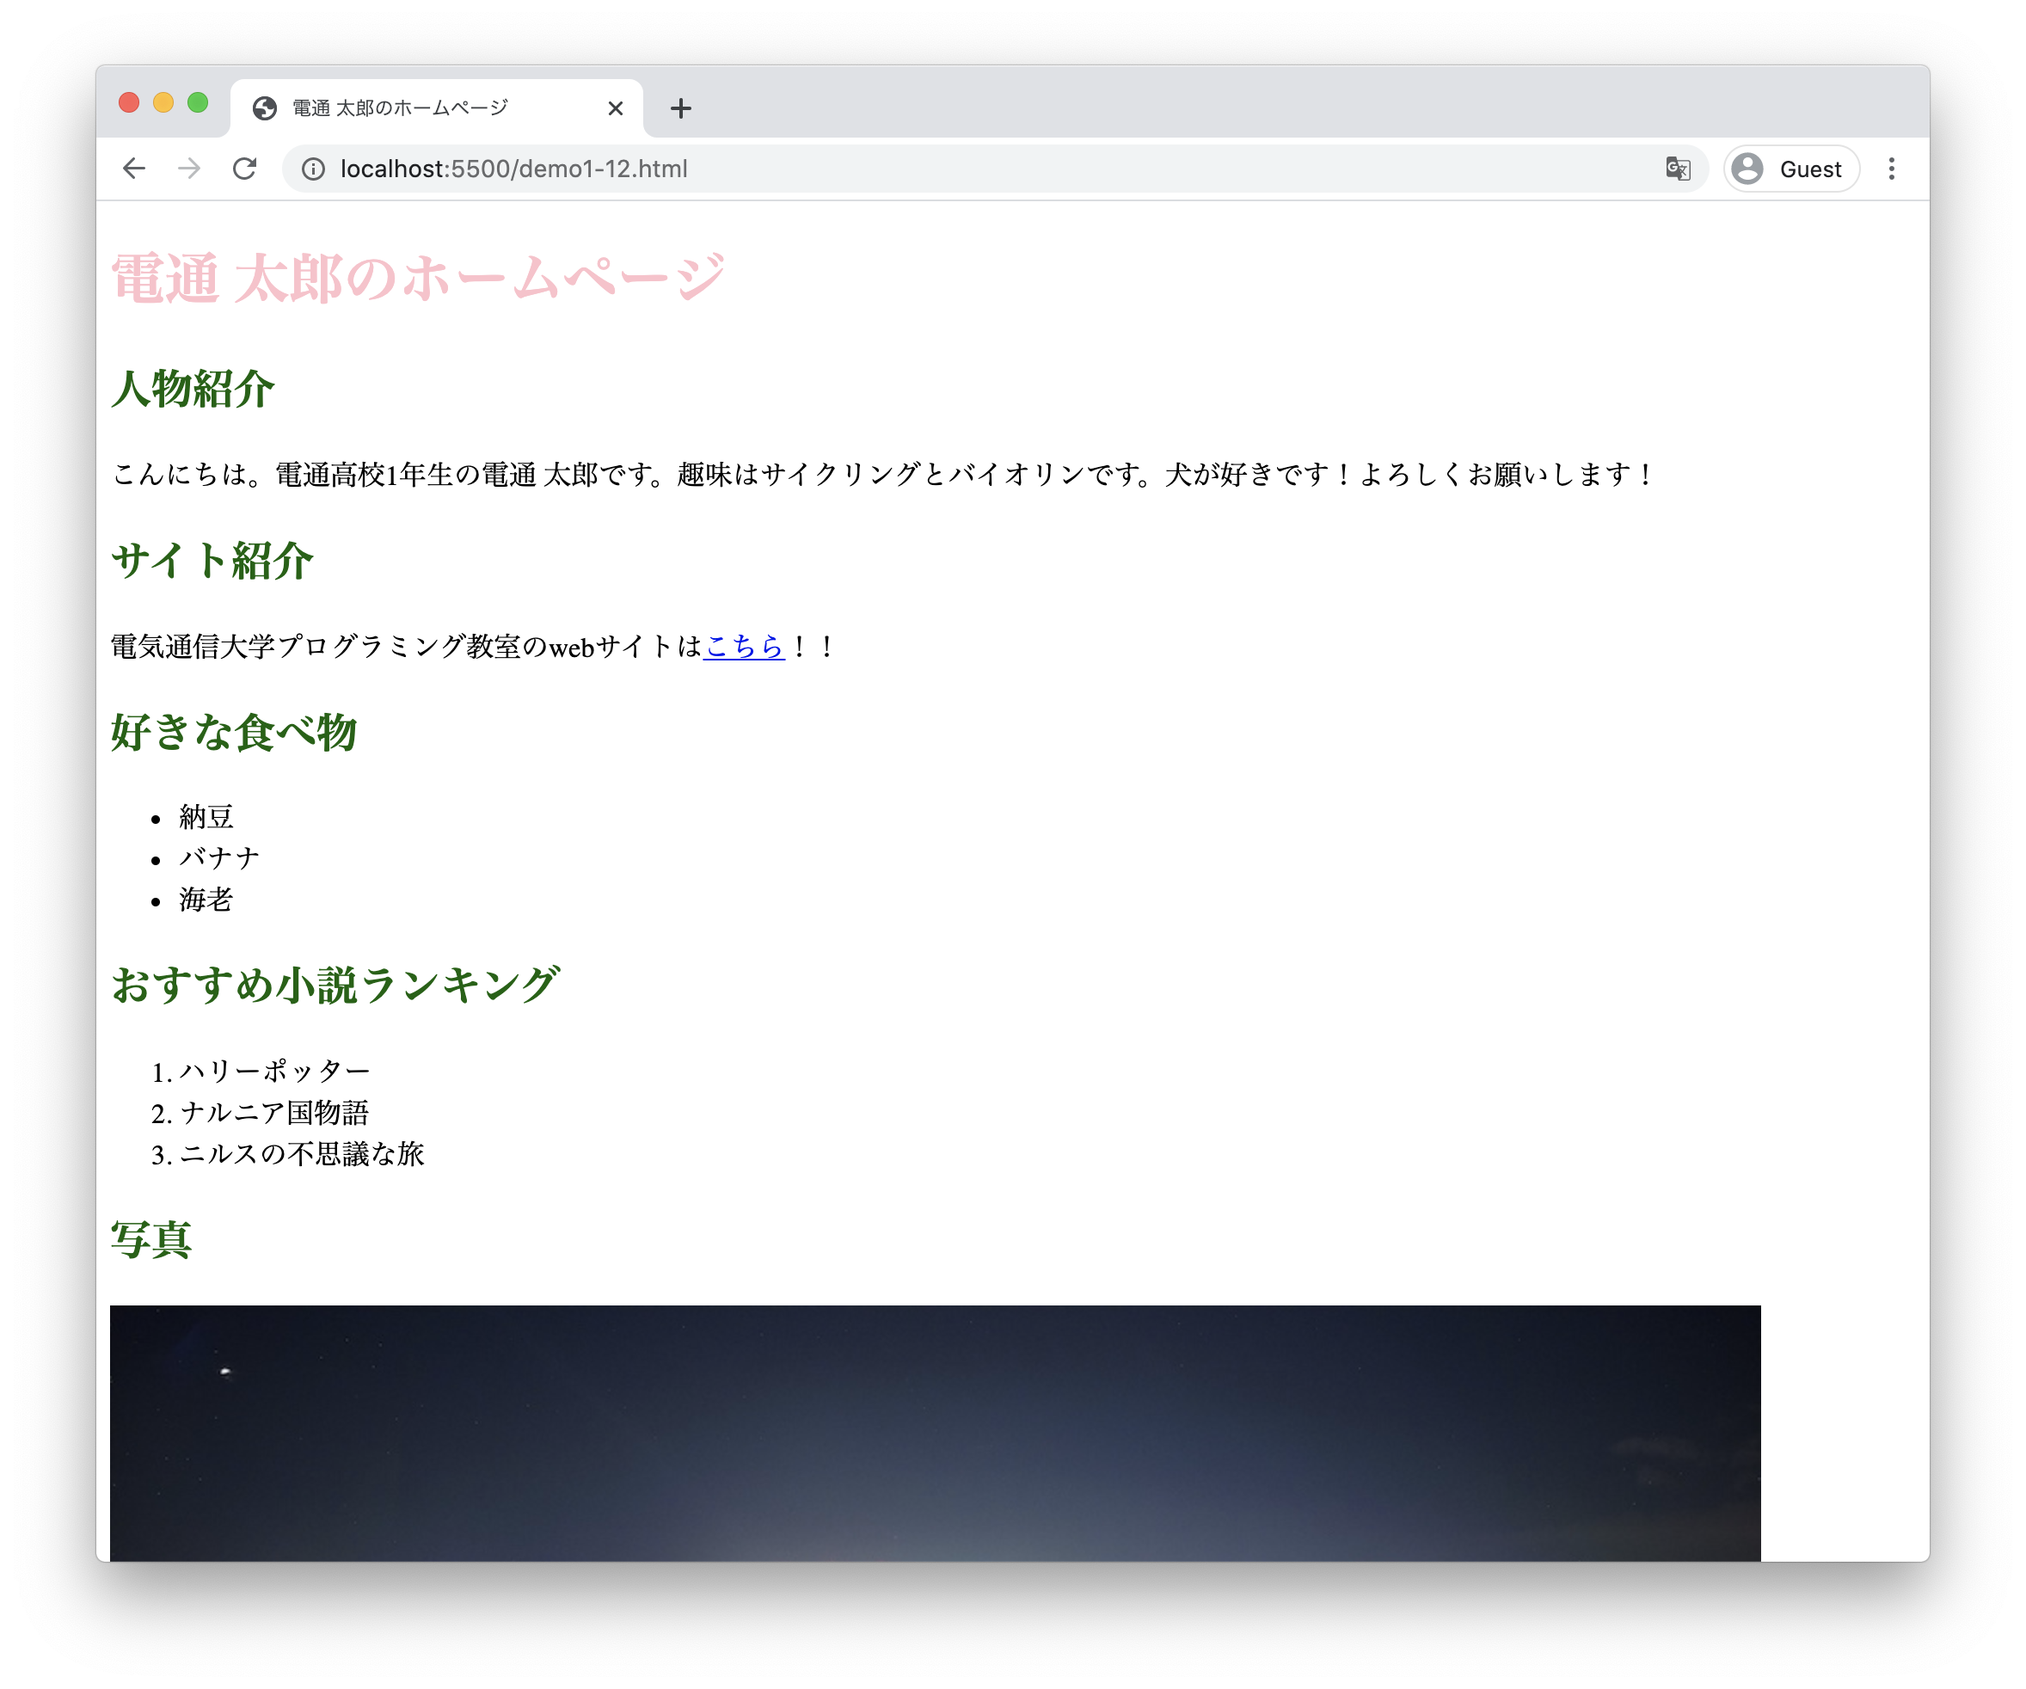
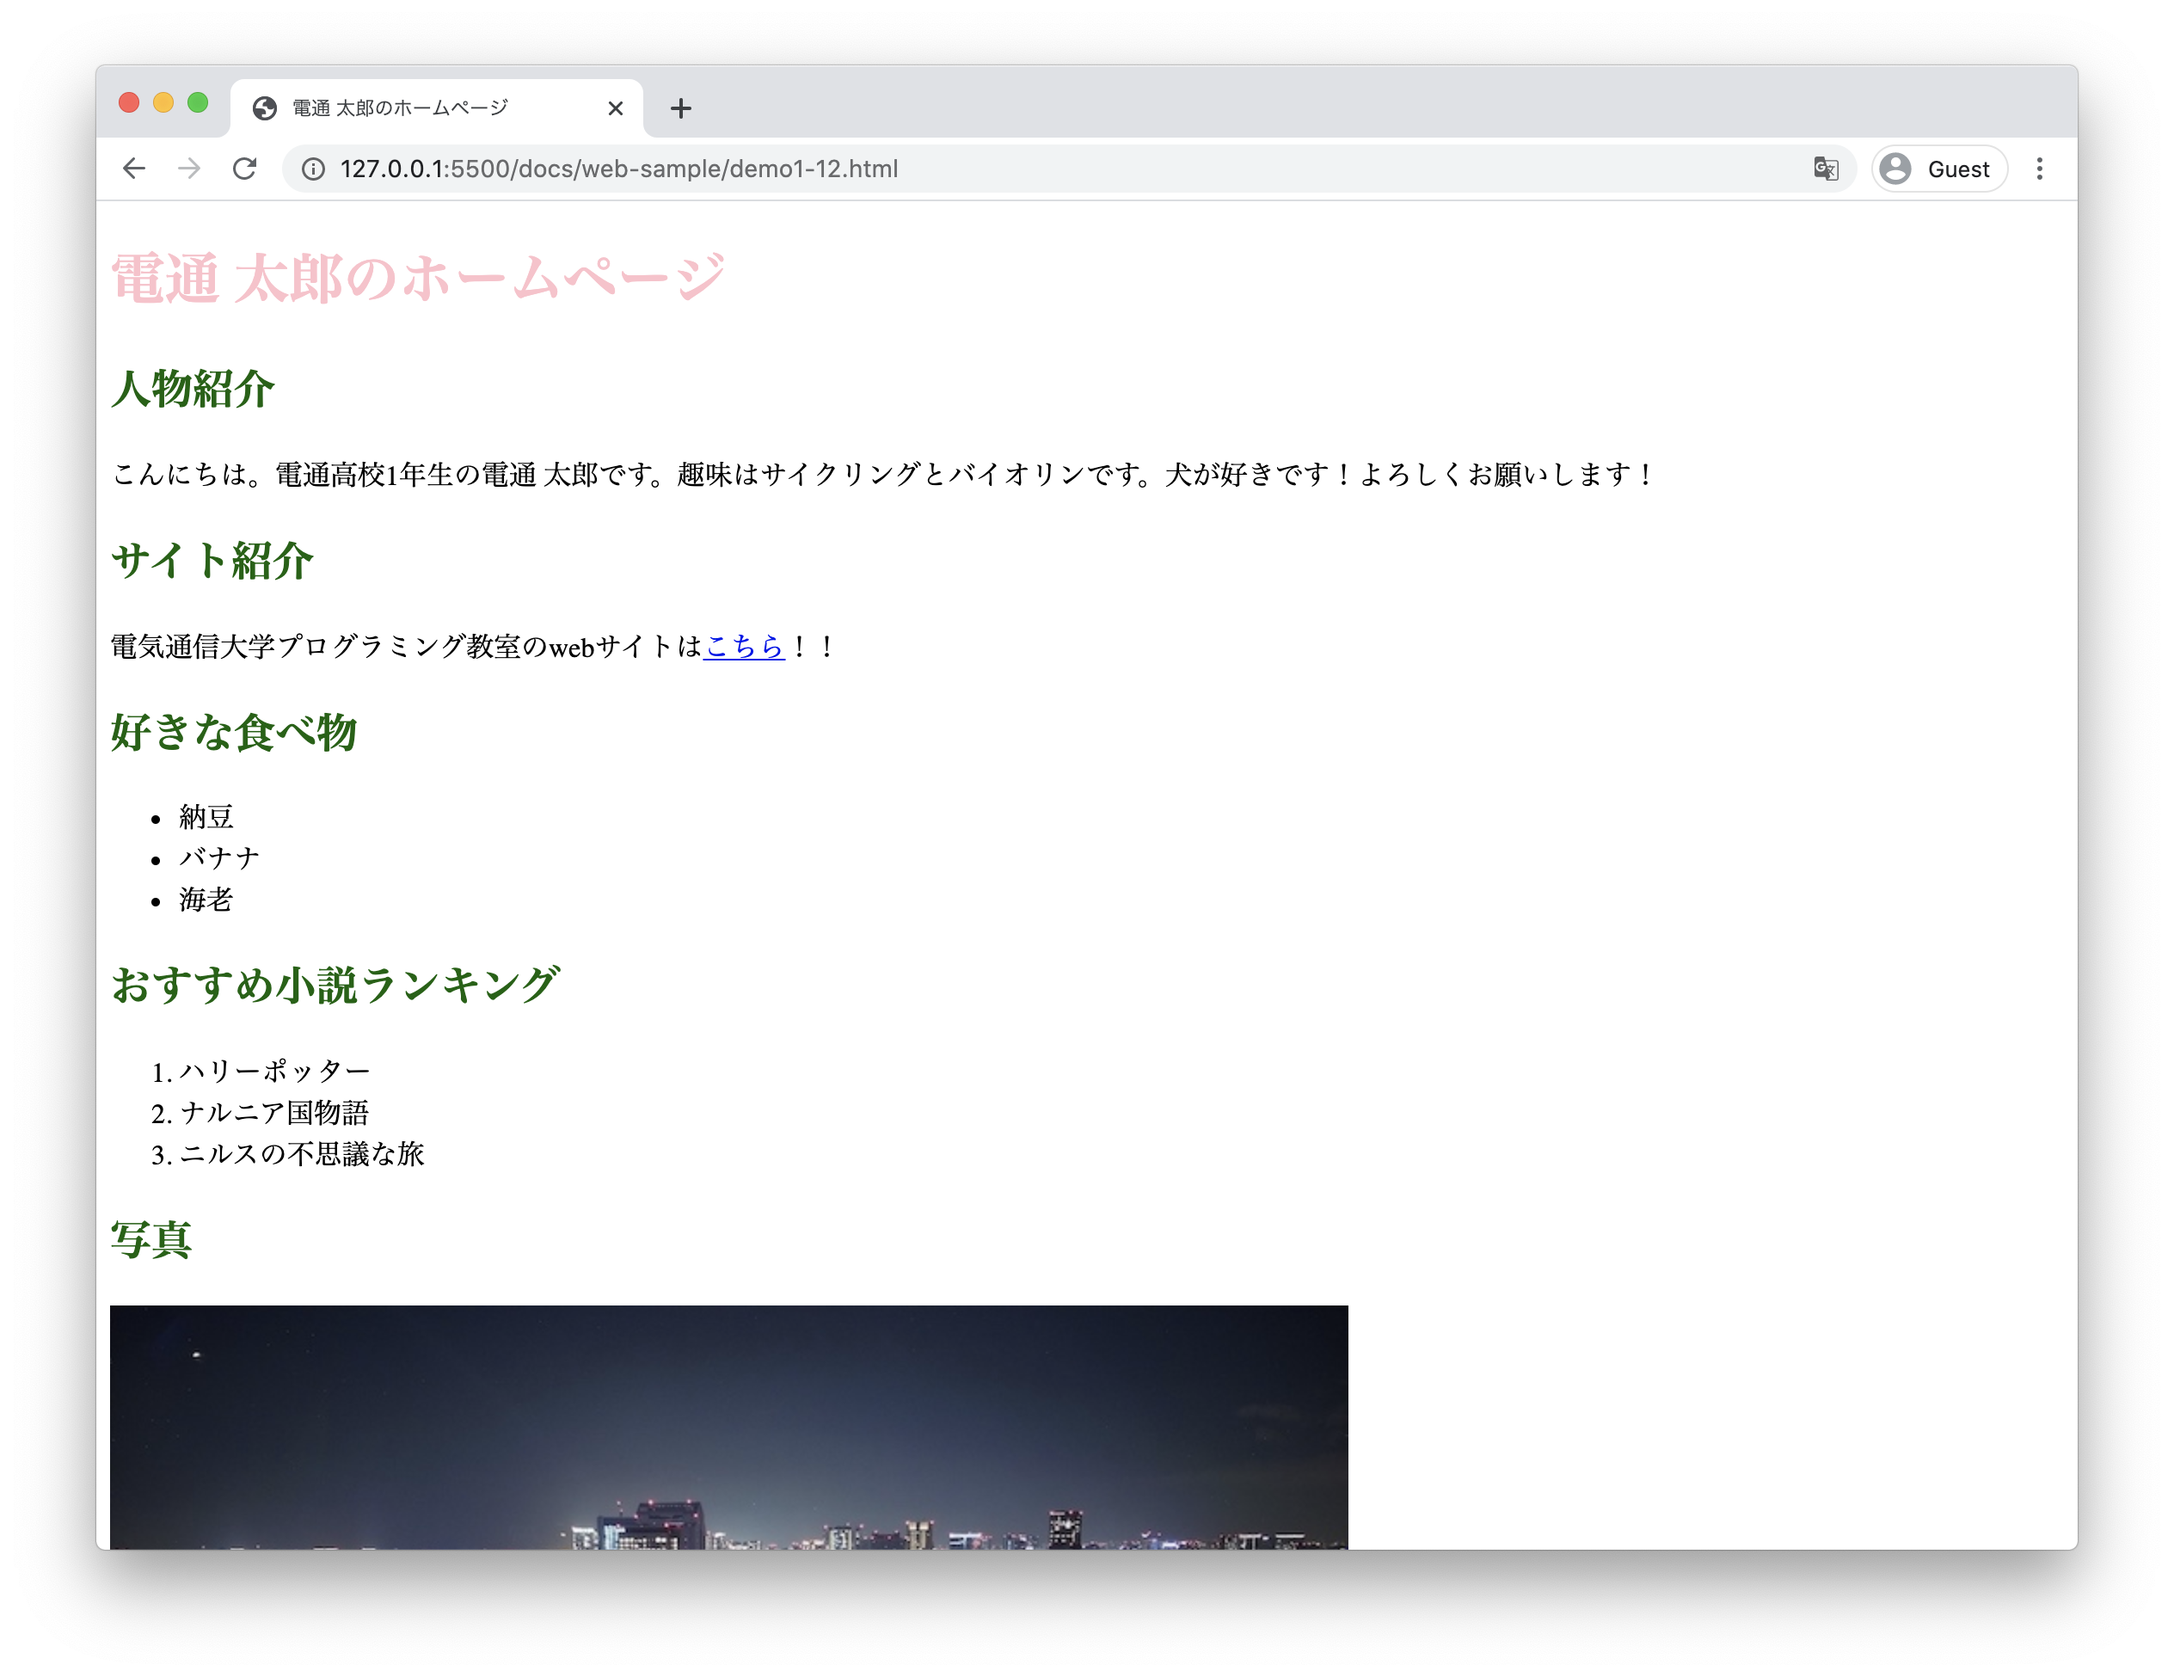
画像周りの修正

diff --git a/docs/web-sample/demo1.html b/docs/web-sample/demo1.html
@@ -20,8 +20,8 @@
       }
       img {
         border: 4px solid gray;
-        width: 480px;
-        height: 270px;
+        width: 320px;
+        height: 180px;
         border-radius: 20px;
       }
       main {
@@ -32,6 +32,9 @@
       }
       .violine {
         color: orange;
+      }
+      .pictures {
+        display: flex;
       }
       .cycling,
       .violine {
@@ -66,8 +69,10 @@
         <li>ニルスの不思議な旅</li>
       </ol>
       <h2>写真</h2>
-      <img src="tokyo-night.jpg" alt="東京の夜景" />
-      <p>東京の夜景です。きれいでしょう？</p>
+      <div class="pictures">
+        <img src="img/tokyo-night.jpg" alt="東京タワーから見た夜景" />
+        <img src="img/tokyo-sunrise.jpg" alt="高尾山から見た朝焼け" />
+      </div>
       <h2>お問い合わせ</h2>
       <form action="http://soasa.starfree.jp/form.php">
         名前: <input type="text" name="name" placeholder="電通太郎" />

diff --git a/docs/web-sample/demo1-18.html b/docs/web-sample/demo1-18.html
@@ -20,8 +20,8 @@
       }
       img {
         border: 4px solid gray;
-        width: 480px;
-        height: 270px;
+        width: 320px;
+        height: 180px;
         border-radius: 20px;
       }
       main {
@@ -32,6 +32,9 @@
       }
       .violine {
         color: orange;
+      }
+      .pictures {
+        background-color: black;
       }
     </style>
   </head>
@@ -59,9 +62,9 @@
         <li>ニルスの不思議な旅</li>
       </ol>
       <h2>写真</h2>
-      <div>
-        <img src="tokyo-night.jpg" alt="東京の夜景" />
-        <p>東京の夜景です。きれいでしょう？</p>
+      <div class="pictures">
+        <img src="img/tokyo-night.jpg" alt="東京タワーから見た夜景" />
+        <img src="img/tokyo-sunrise.jpg" alt="高尾山から見た朝焼け" />
       </div>
     </main>
   </body>

diff --git a/docs/web-sample/demo1-19.html b/docs/web-sample/demo1-19.html
@@ -20,8 +20,8 @@
       }
       img {
         border: 4px solid gray;
-        width: 480px;
-        height: 270px;
+        width: 320px;
+        height: 180px;
         border-radius: 20px;
       }
       main {
@@ -32,6 +32,9 @@
       }
       .violine {
         color: orange;
+      }
+      .pictures {
+        display: flex;
       }
       .cycling,
       .violine {
@@ -66,8 +69,10 @@
         <li>ニルスの不思議な旅</li>
       </ol>
       <h2>写真</h2>
-      <img src="tokyo-night.jpg" alt="東京の夜景" />
-      <p>東京の夜景です。きれいでしょう？</p>
+      <div class="pictures">
+        <img src="img/tokyo-night.jpg" alt="東京タワーから見た夜景" />
+        <img src="img/tokyo-sunrise.jpg" alt="高尾山から見た朝焼け" />
+      </div>
     </main>
   </body>
 </html>

diff --git a/docs/web-sample/demo1-17.html b/docs/web-sample/demo1-17.html
@@ -20,8 +20,8 @@
       }
       img {
         border: 4px solid gray;
-        width: 480px;
-        height: 270px;
+        width: 320px;
+        height: 180px;
         border-radius: 20px;
       }
       main {
@@ -52,8 +52,8 @@
         <li>ニルスの不思議な旅</li>
       </ol>
       <h2>写真</h2>
-      <img src="tokyo-night.jpg" alt="東京の夜景" />
-      <p>東京の夜景です。きれいでしょう？</p>
+      <img src="img/tokyo-night.jpg" alt="東京タワーから見た夜景" />
+      <img src="img/tokyo-sunrise.jpg" alt="高尾山から見た朝焼け" />
     </main>
   </body>
 </html>

diff --git a/docs/web-sample/demo1-11.html b/docs/web-sample/demo1-11.html
@@ -27,8 +27,8 @@
         <li>ニルスの不思議な旅</li>
       </ol>
       <h2>写真</h2>
-      <img src="tokyo-night.jpg" alt="東京の夜景" />
-      <p>東京の夜景です。きれいでしょう？</p>
+      <img src="img/tokyo-night.jpg" alt="東京タワーから見た夜景" />
+      <img src="img/tokyo-sunrise.jpg" alt="高尾山から見た朝焼け" />
     </main>
   </body>
 </html>

diff --git a/docs/web-sample/demo1-12.html b/docs/web-sample/demo1-12.html
@@ -35,8 +35,8 @@
         <li>ニルスの不思議な旅</li>
       </ol>
       <h2>写真</h2>
-      <img src="tokyo-night.jpg" alt="東京の夜景" />
-      <p>東京の夜景です。きれいでしょう？</p>
+      <img src="img/tokyo-night.jpg" alt="東京タワーから見た夜景" />
+      <img src="img/tokyo-sunrise.jpg" alt="高尾山から見た朝焼け" />
     </main>
   </body>
 </html>

diff --git a/docs/web-sample/demo1-13.html b/docs/web-sample/demo1-13.html
@@ -36,8 +36,8 @@
         <li>ニルスの不思議な旅</li>
       </ol>
       <h2>写真</h2>
-      <img src="tokyo-night.jpg" alt="東京の夜景" />
-      <p>東京の夜景です。きれいでしょう？</p>
+      <img src="img/tokyo-night.jpg" alt="東京タワーから見た夜景" />
+      <img src="img/tokyo-sunrise.jpg" alt="高尾山から見た朝焼け" />
     </main>
   </body>
 </html>

diff --git a/docs/web-sample/demo1-14.html b/docs/web-sample/demo1-14.html
@@ -44,8 +44,8 @@
         <li>ニルスの不思議な旅</li>
       </ol>
       <h2>写真</h2>
-      <img src="tokyo-night.jpg" alt="東京の夜景" />
-      <p>東京の夜景です。きれいでしょう？</p>
+      <img src="img/tokyo-night.jpg" alt="東京タワーから見た夜景" />
+      <img src="img/tokyo-sunrise.jpg" alt="高尾山から見た朝焼け" />
     </main>
   </body>
 </html>

diff --git a/docs/web-sample/demo1-15.html b/docs/web-sample/demo1-15.html
@@ -46,8 +46,8 @@
         <li>ニルスの不思議な旅</li>
       </ol>
       <h2>写真</h2>
-      <img src="tokyo-night.jpg" alt="東京の夜景" />
-      <p>東京の夜景です。きれいでしょう？</p>
+      <img src="img/tokyo-night.jpg" alt="東京タワーから見た夜景" />
+      <img src="img/tokyo-sunrise.jpg" alt="高尾山から見た朝焼け" />
     </main>
   </body>
 </html>

diff --git a/docs/web-sample/demo1-16.html b/docs/web-sample/demo1-16.html
@@ -49,8 +49,8 @@
         <li>ニルスの不思議な旅</li>
       </ol>
       <h2>写真</h2>
-      <img src="tokyo-night.jpg" alt="東京の夜景" />
-      <p>東京の夜景です。きれいでしょう？</p>
+      <img src="img/tokyo-night.jpg" alt="東京タワーから見た夜景" />
+      <img src="img/tokyo-sunrise.jpg" alt="高尾山から見た朝焼け" />
     </main>
   </body>
 </html>

diff --git a/docs/web-sample/demo1-9.html b/docs/web-sample/demo1-9.html
@@ -19,6 +19,6 @@
     <li>ニルスの不思議な旅</li>
   </ol>
   <h2>写真</h2>
-  <img src="tokyo-night.jpg" alt="東京の夜景" />
-  <p>東京の夜景です。きれいでしょう？</p>
+  <img src="img/tokyo-night.jpg" alt="東京タワーから見た夜景" />
+  <img src="img/tokyo-sunrise.jpg" alt="高尾山から見た朝焼け" />
 </main>

diff --git a/docs/web-sample/demo1-10.html b/docs/web-sample/demo1-10.html
@@ -27,7 +27,7 @@
         <li>ニルスの不思議な旅</li>
       </ol>
       <h2>写真</h2>
-      <img src="tokyo-night.jpg" alt="東京の夜景" />
+      <img src="img/tokyo-night.jpg" alt="東京タワーから見た夜景" />
       <p>東京の夜景です。きれいでしょう？</p>
     </main>
   </body>
